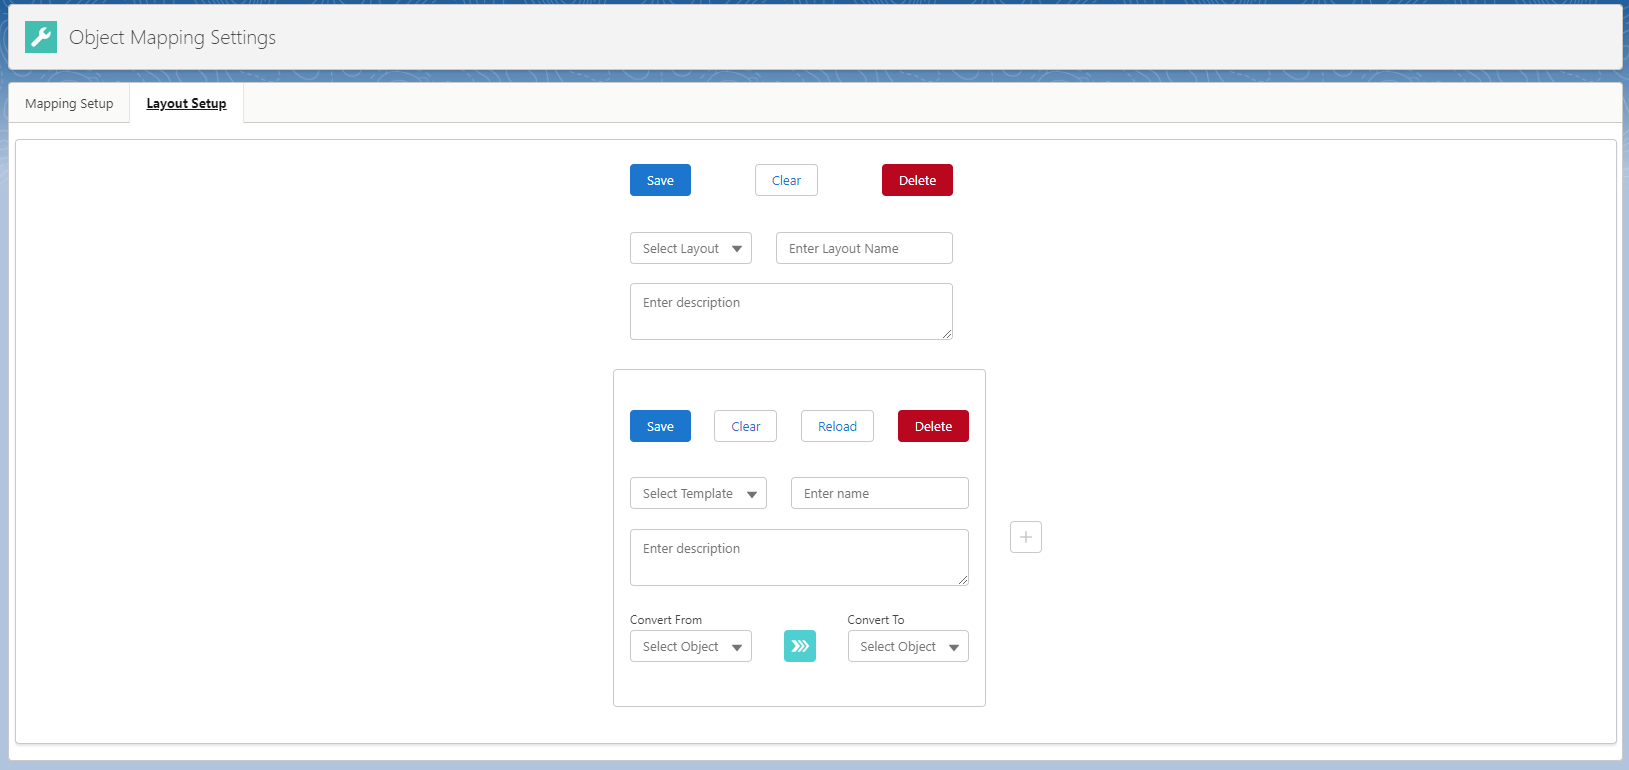
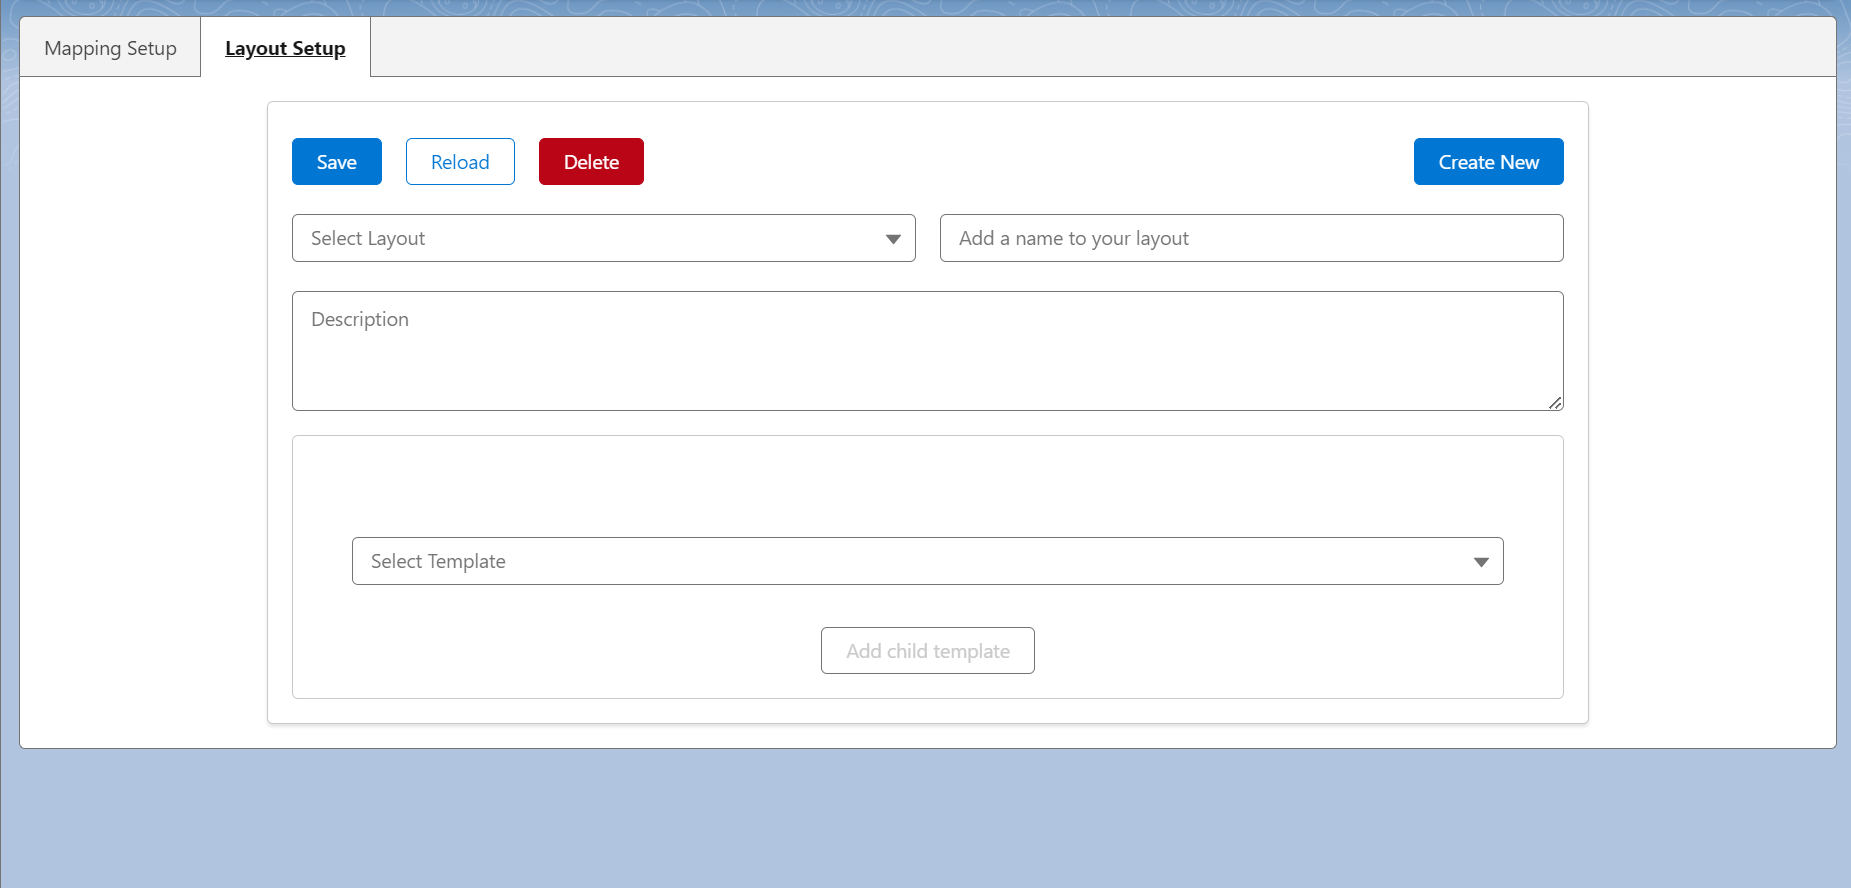
update README

diff --git a/README.md b/README.md
@@ -1,30 +1,32 @@
 # Object Conversion Tool
-
+Salesforce SObject Conversion Tool for converting records between different object types with providing a user-friendly interface for configuring the conversion.
 ## Object Mapping Setup Tool
 The Mapping Setup Tool for setting up custom and standard 
 object field mappings for object conversion can provide a user-friendly interface
 for configuring the mapping of fields between different objects.
 
 - The LWC could include features such as add, edit and delete field mappings, 
-and the ability to save, load, reload, clear and delete the mapping configurations.
+and the ability to save, load, reload and delete the mapping configurations.
 - It allows to select the source and target objects and fields and to traverse up to 5 levels of relationships.
 
-![img.png ](./documentation/images/mapping_setup_tool_empty.png)
-![img.png ](./documentation/images/mapping_setup_tool_loaded1.png)
+![img.png](./documentation/images/mapping_setup_empty.png)
+In the example below the Opportunity object type is selected as the source object and the Order object type is selected as the target object.
+![img.png](./documentation/images/mapping_setup_loaded_1.png)
+In the example below the Opportunity Product object type is selected as the source object and the Order Product object type is selected as the target object.
+![img.png](./documentation/images/mapping_setup_loaded_2.png)
 
 ## Object Mapping Layout Setup Tool
 The Mapping Layout Setup Tool for setting up predefined layouts for object conversions that can be selected by the user before the conversion.
 - It can be used to define the parent and child object mappings in any combination for the conversion for the selected object type.
-- The LWC could include features such as add, edit and delete the parent and child mappings,
-and the ability to save, load and clear the layout configurations. 
+- The LWC could include features such as add parent and child mapping relations, and the ability to save, load and delete the layout configurations. 
 - Also provide to set up filters for child mappings.
 
-![img.png ](./documentation/images/mapping_layout_setup_empty.png)
+![img.png](./documentation/images/mapping_layout_setup_empty.png)
 
 - In the example below the parent mapping is set up for the Opportunity object and the child mapping is set up for the OpportunityLineItem object.
-- The Opportunity in set up to convert to Order and the OpportunityLineItem is set up to convert to OrderItem and TestChild custom objects.
+- The Opportunity in set up to convert to Order and the OpportunityLineItem is set up to convert to OrderItem.
 
-![img.png ](./documentation/images/mapping_layout_setup_loaded1.png)
+![img.png](./documentation/images/layout_setup_tool_loaded.png)
 
 - To use the layout setup, you have to create an action on the selected object with using the Screen Flow named Single Record Creator Screen:
 
@@ -35,12 +37,6 @@ and the ability to save, load and clear the layout configurations.
 
 ![img.png ](./documentation/images/screen_flow_to_convert.png)
 
-- After clicking the Convert button if the conversion is successful, you can view the created record with clicking the View Created Record button.
+- After clicking the Convert button if the conversion is successful, you can view the created records with all the related child records on it by clicking the View Created Record button.
 
 ![img.png ](./documentation/images/screen_flow_to_convert_success.png)
-
-- Limit usage of the above record conversion (1 parent and 2 child mappings):
-
-![img.png ](./documentation/images/limits.png)
-
-
